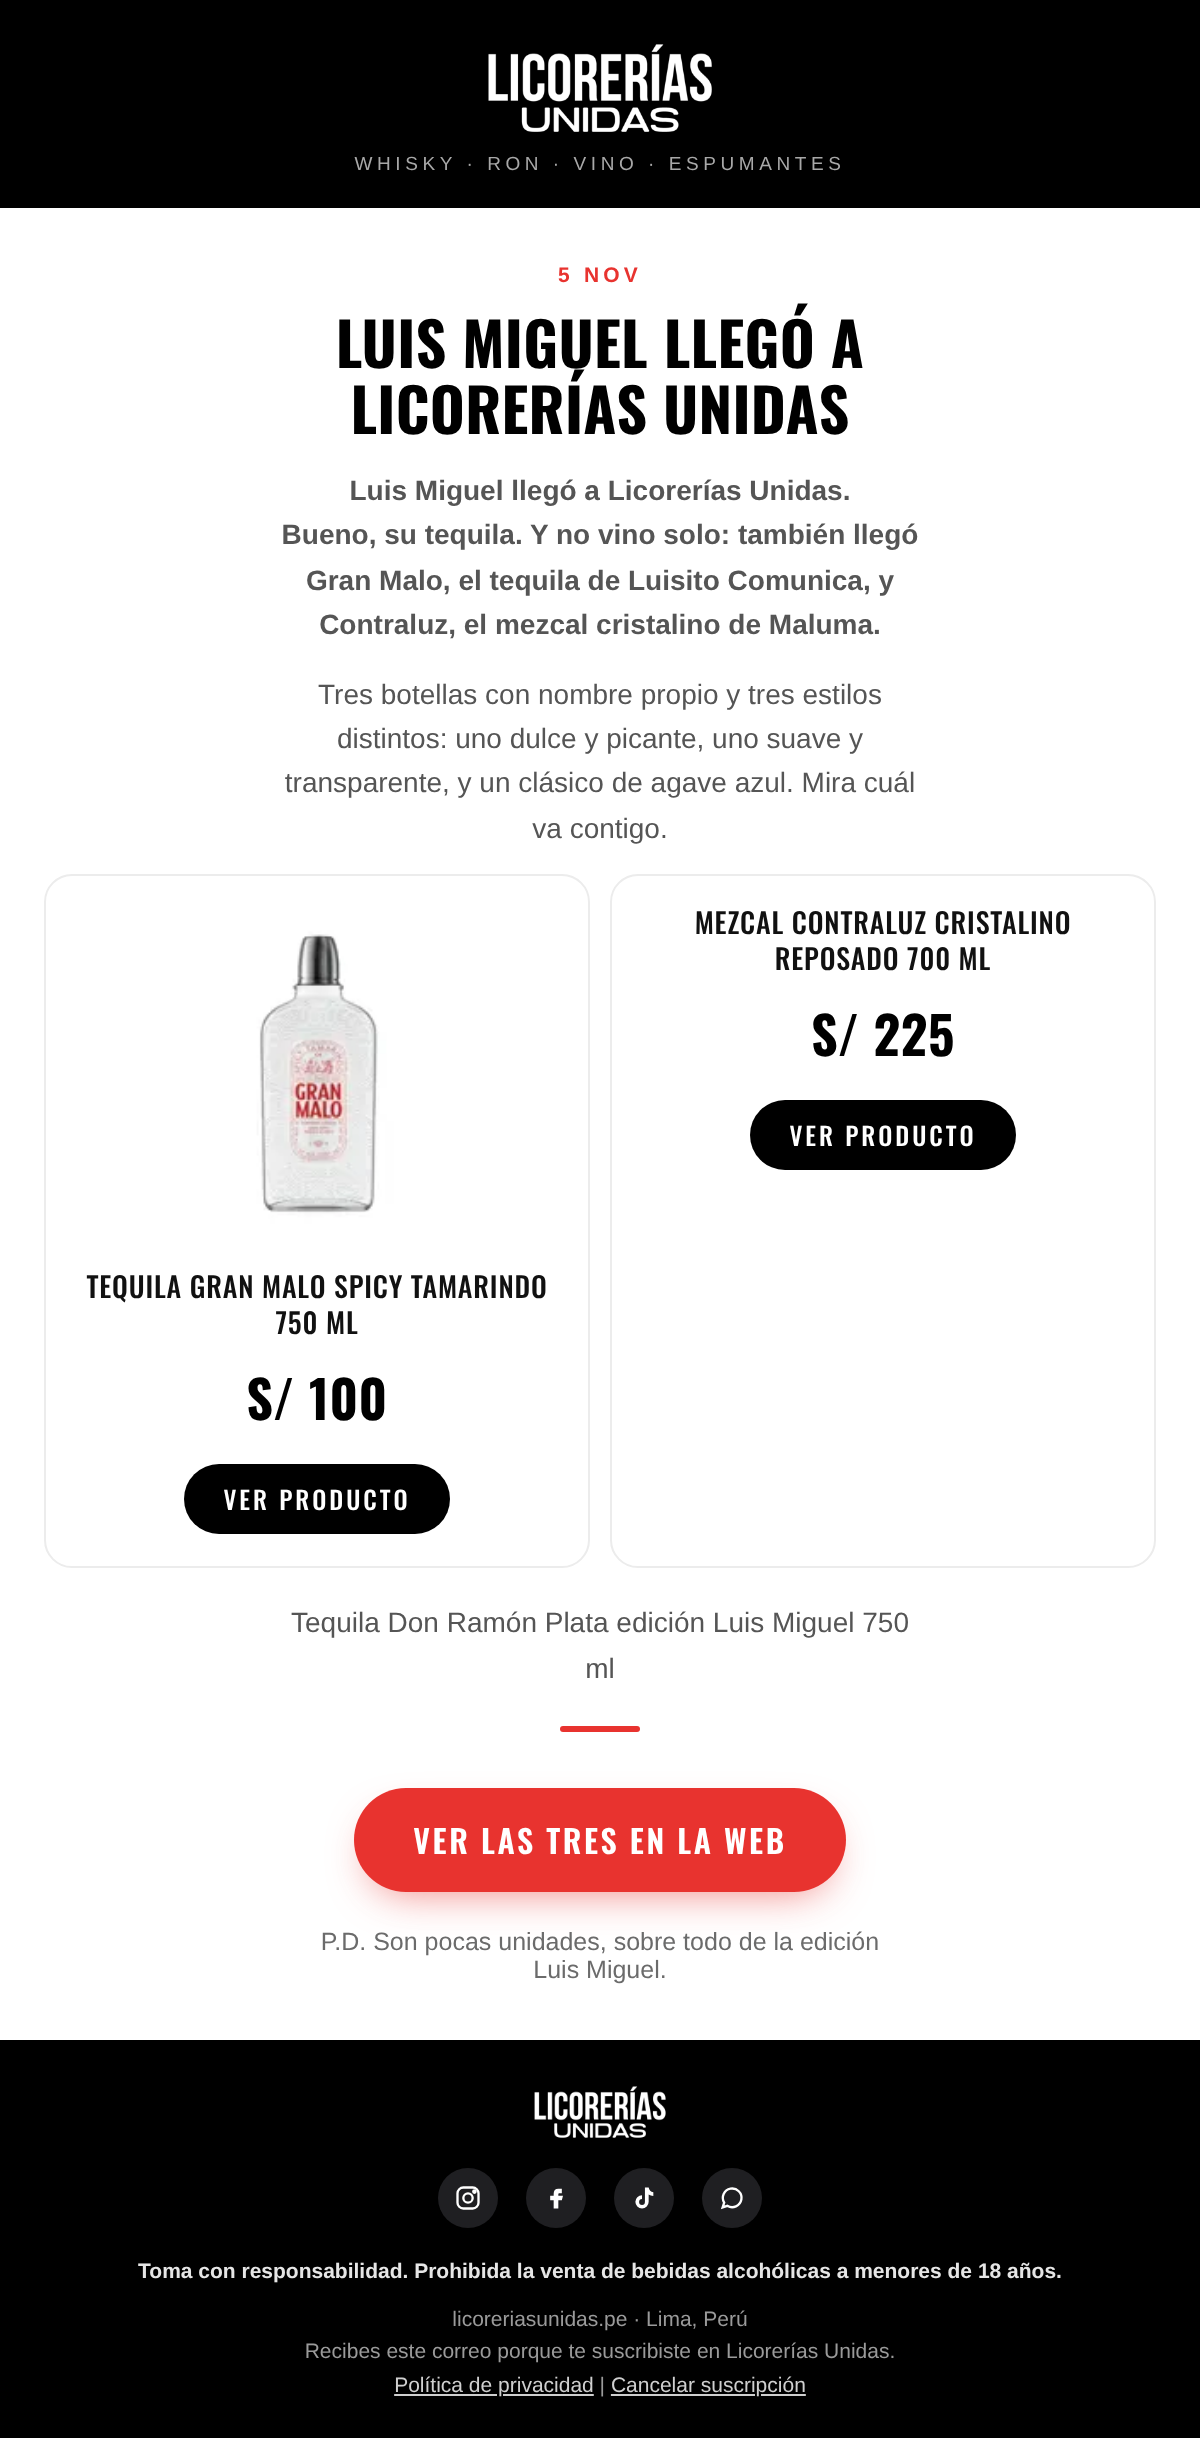
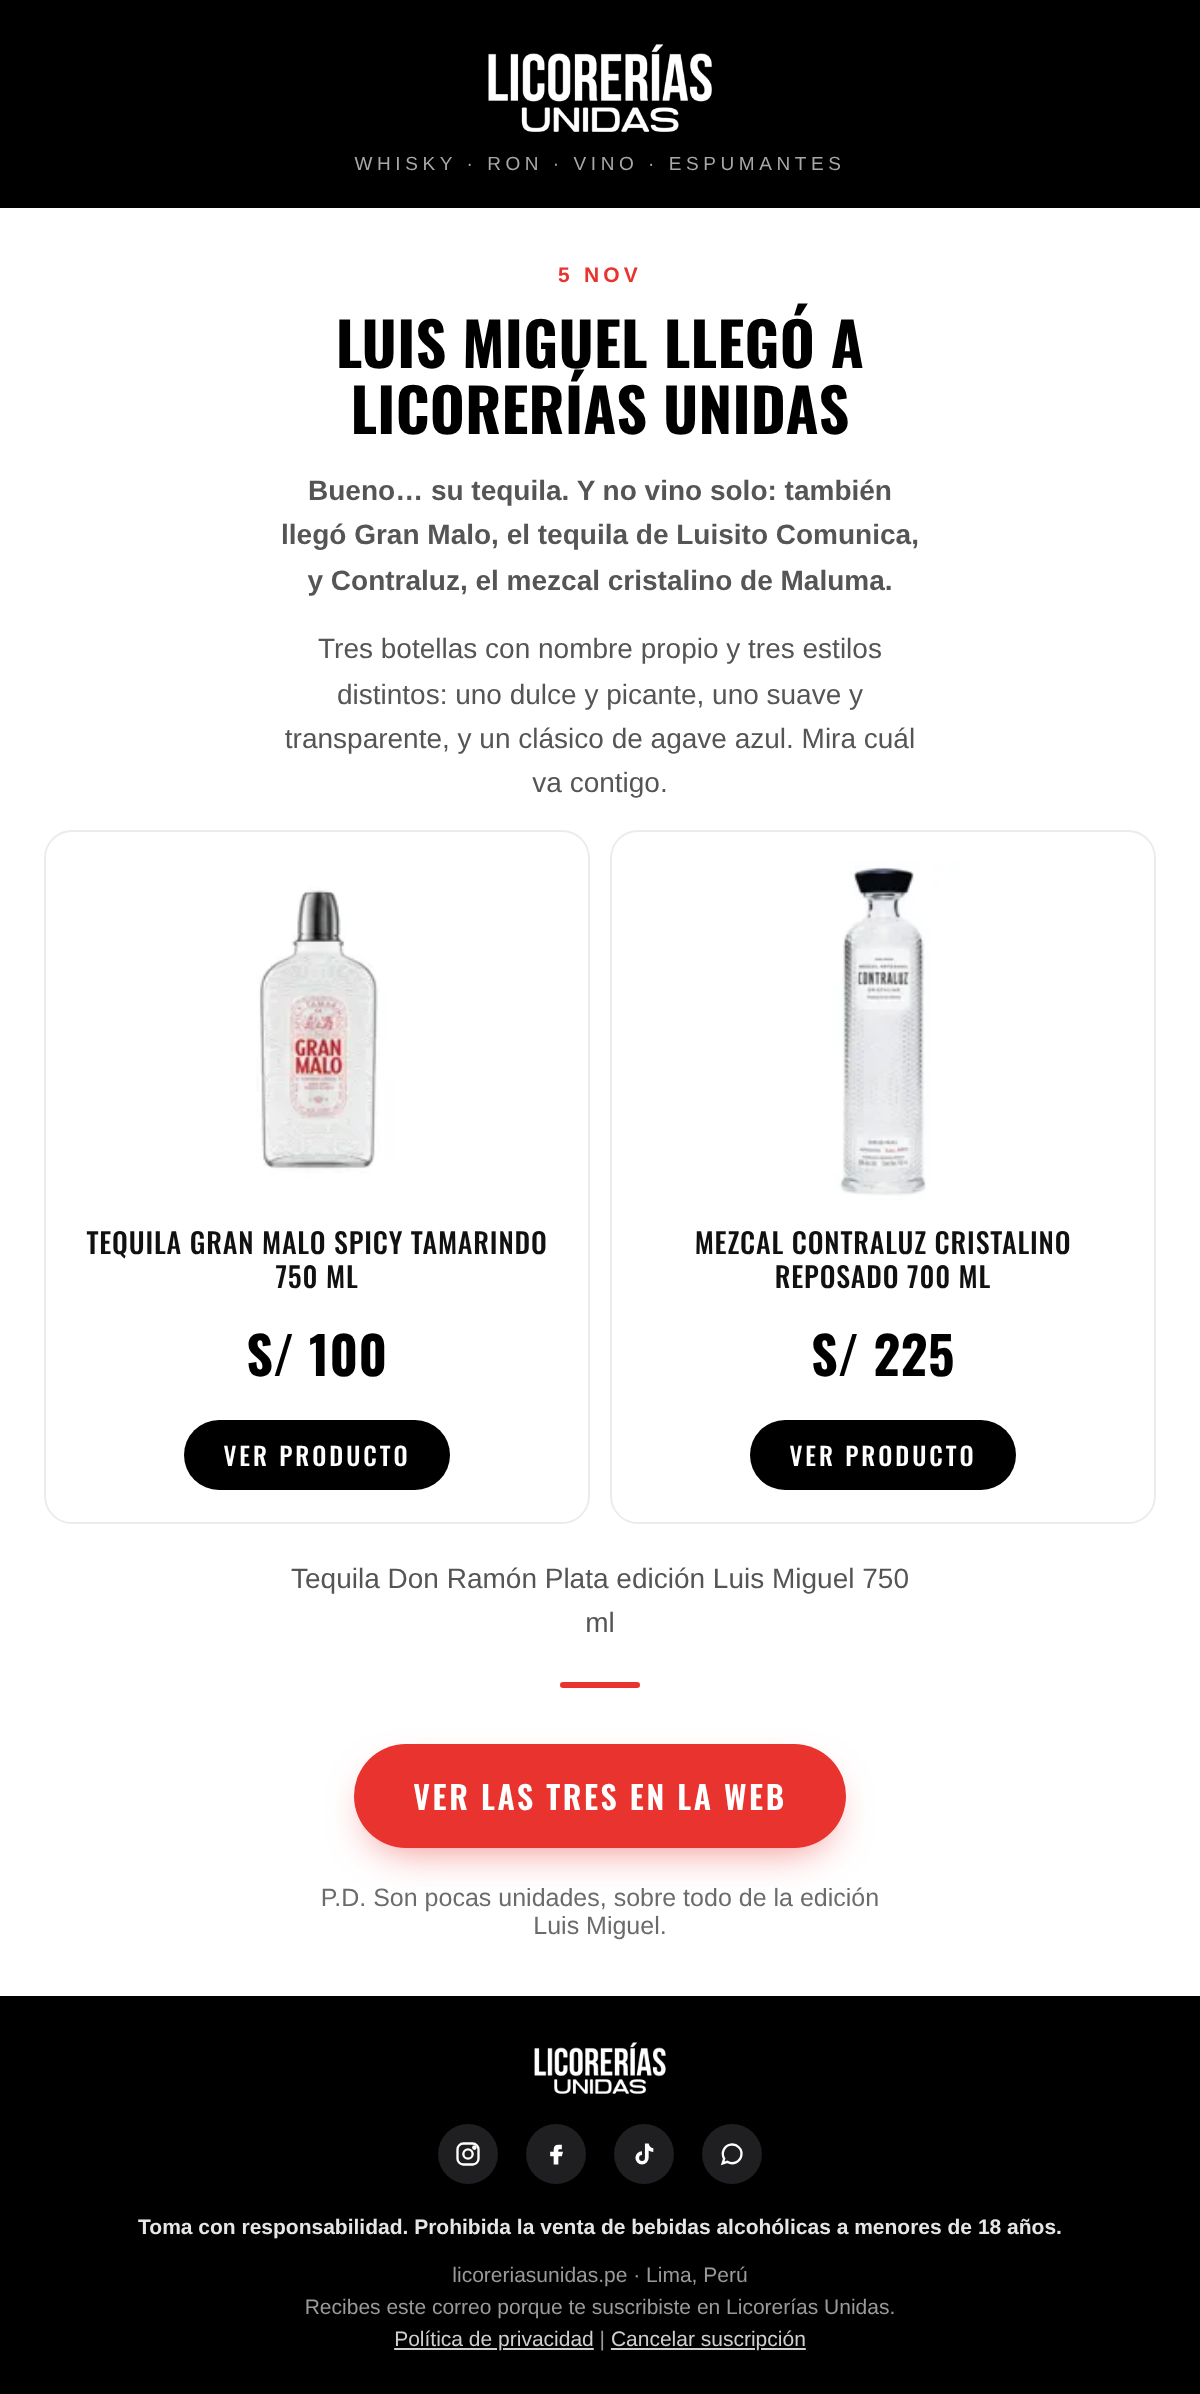
Mailing 05/11: sin título repetido y con foto de Contraluz
Claude-Session: https://claude.ai/code/session_0148WGEnZfS2ZRp3UxJqiBn1

diff --git a/COPYS_MAILING_NOV_LU.md b/COPYS_MAILING_NOV_LU.md
@@ -10,8 +10,7 @@ El texto va corto; los productos salen como tarjetas con foto, precio y botón.
 
 Cuerpo:
 
-Luis Miguel llegó a Licorerías Unidas.
-Bueno, su tequila. Y no vino solo: también llegó Gran Malo, el tequila de Luisito Comunica, y Contraluz, el mezcal cristalino de Maluma.
+Bueno… su tequila. Y no vino solo: también llegó Gran Malo, el tequila de Luisito Comunica, y Contraluz, el mezcal cristalino de Maluma.
 
 Tres botellas con nombre propio y tres estilos distintos: uno dulce y picante, uno suave y transparente, y un clásico de agave azul. Mira cuál va contigo.
 
